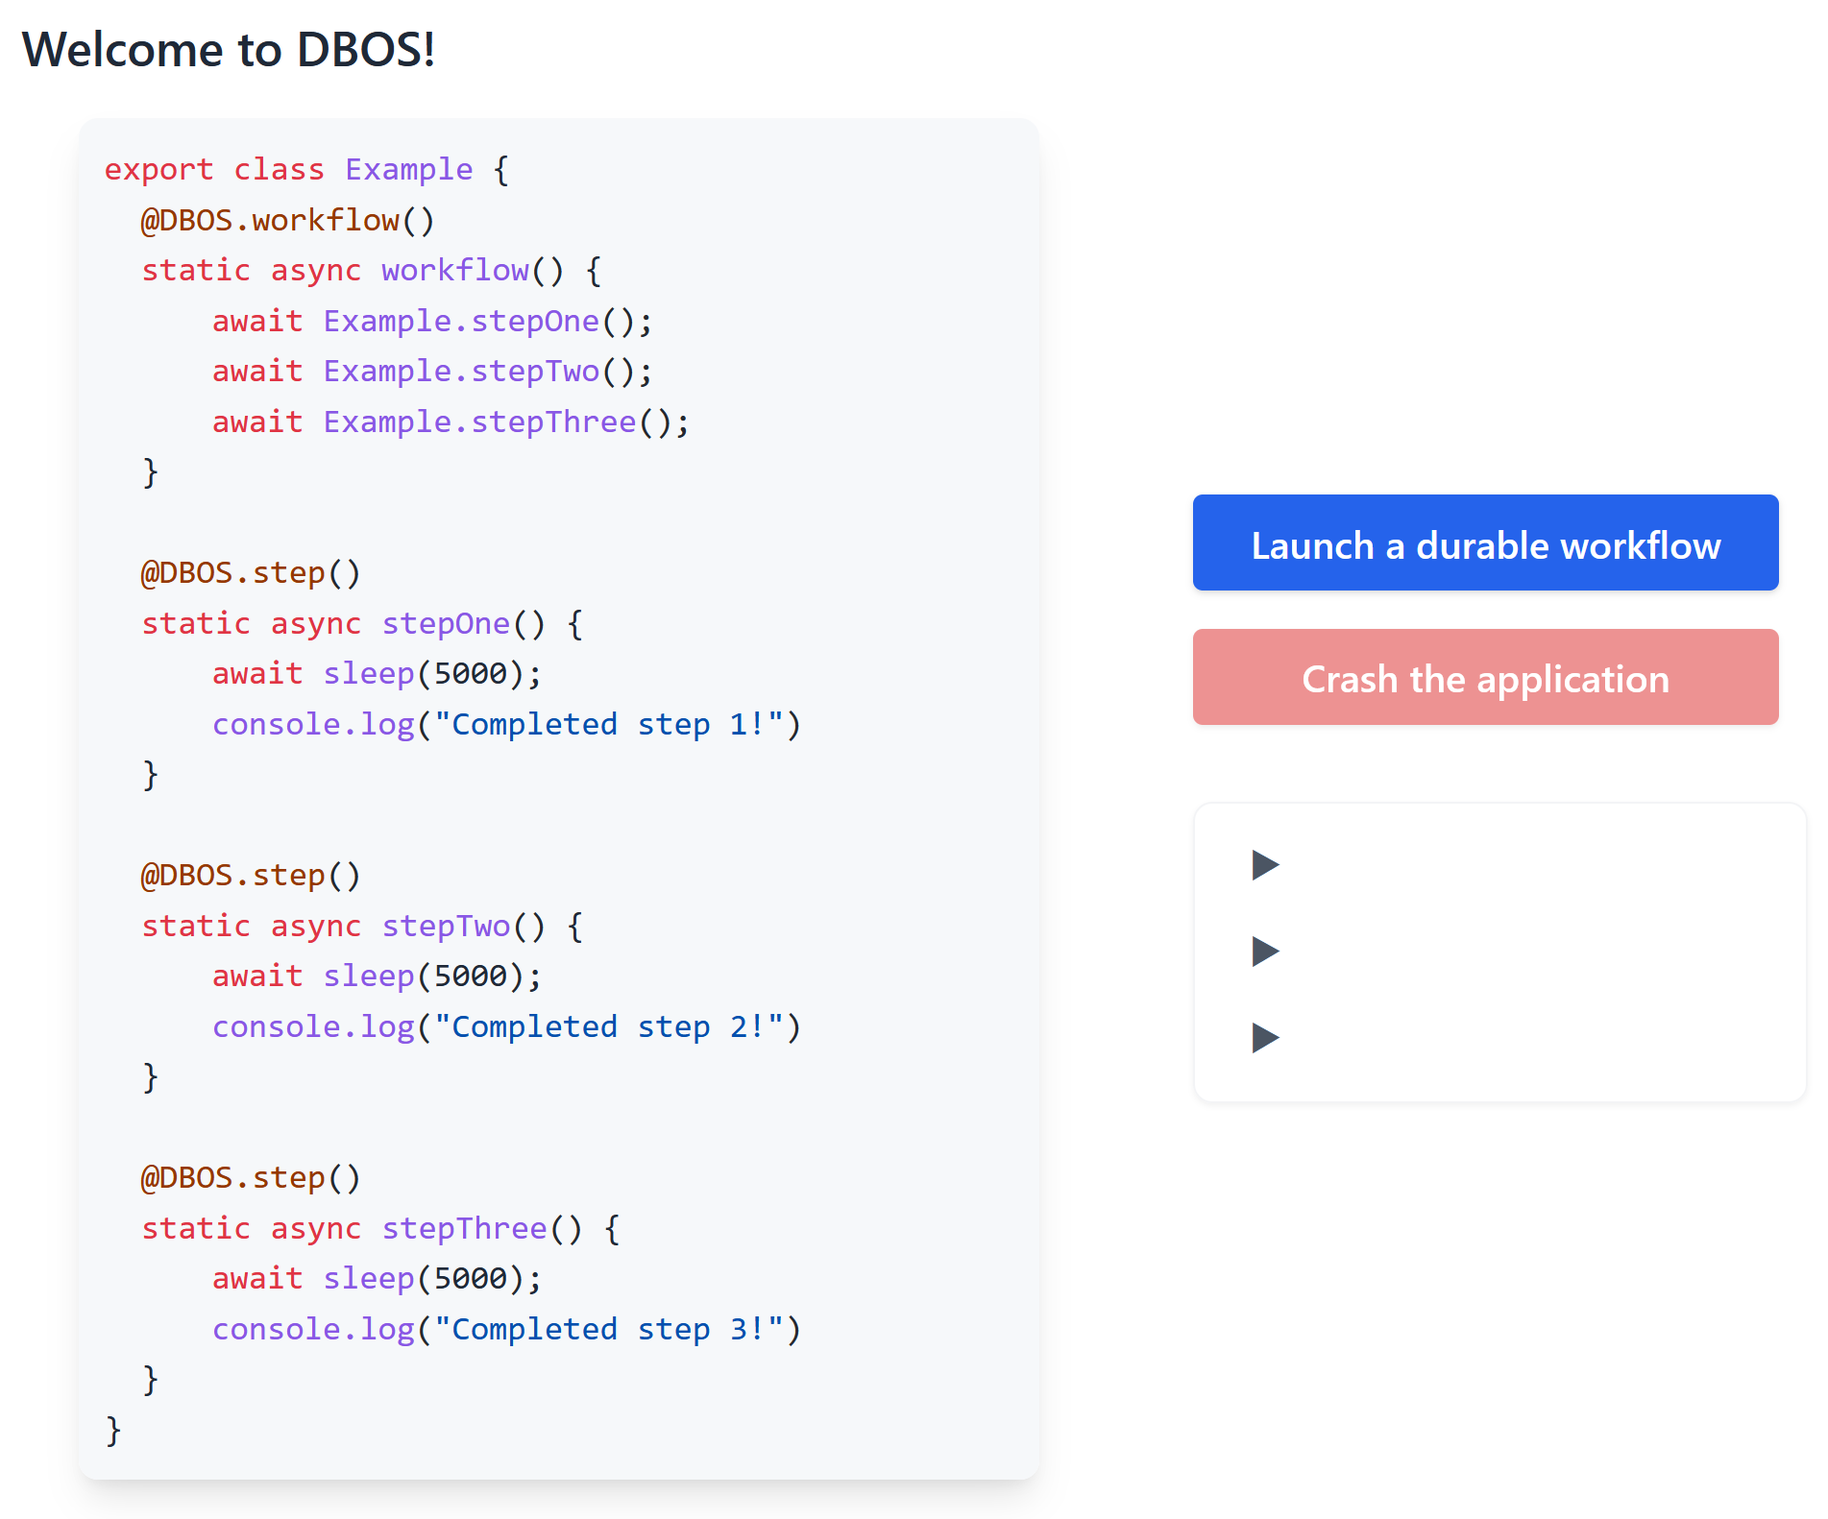
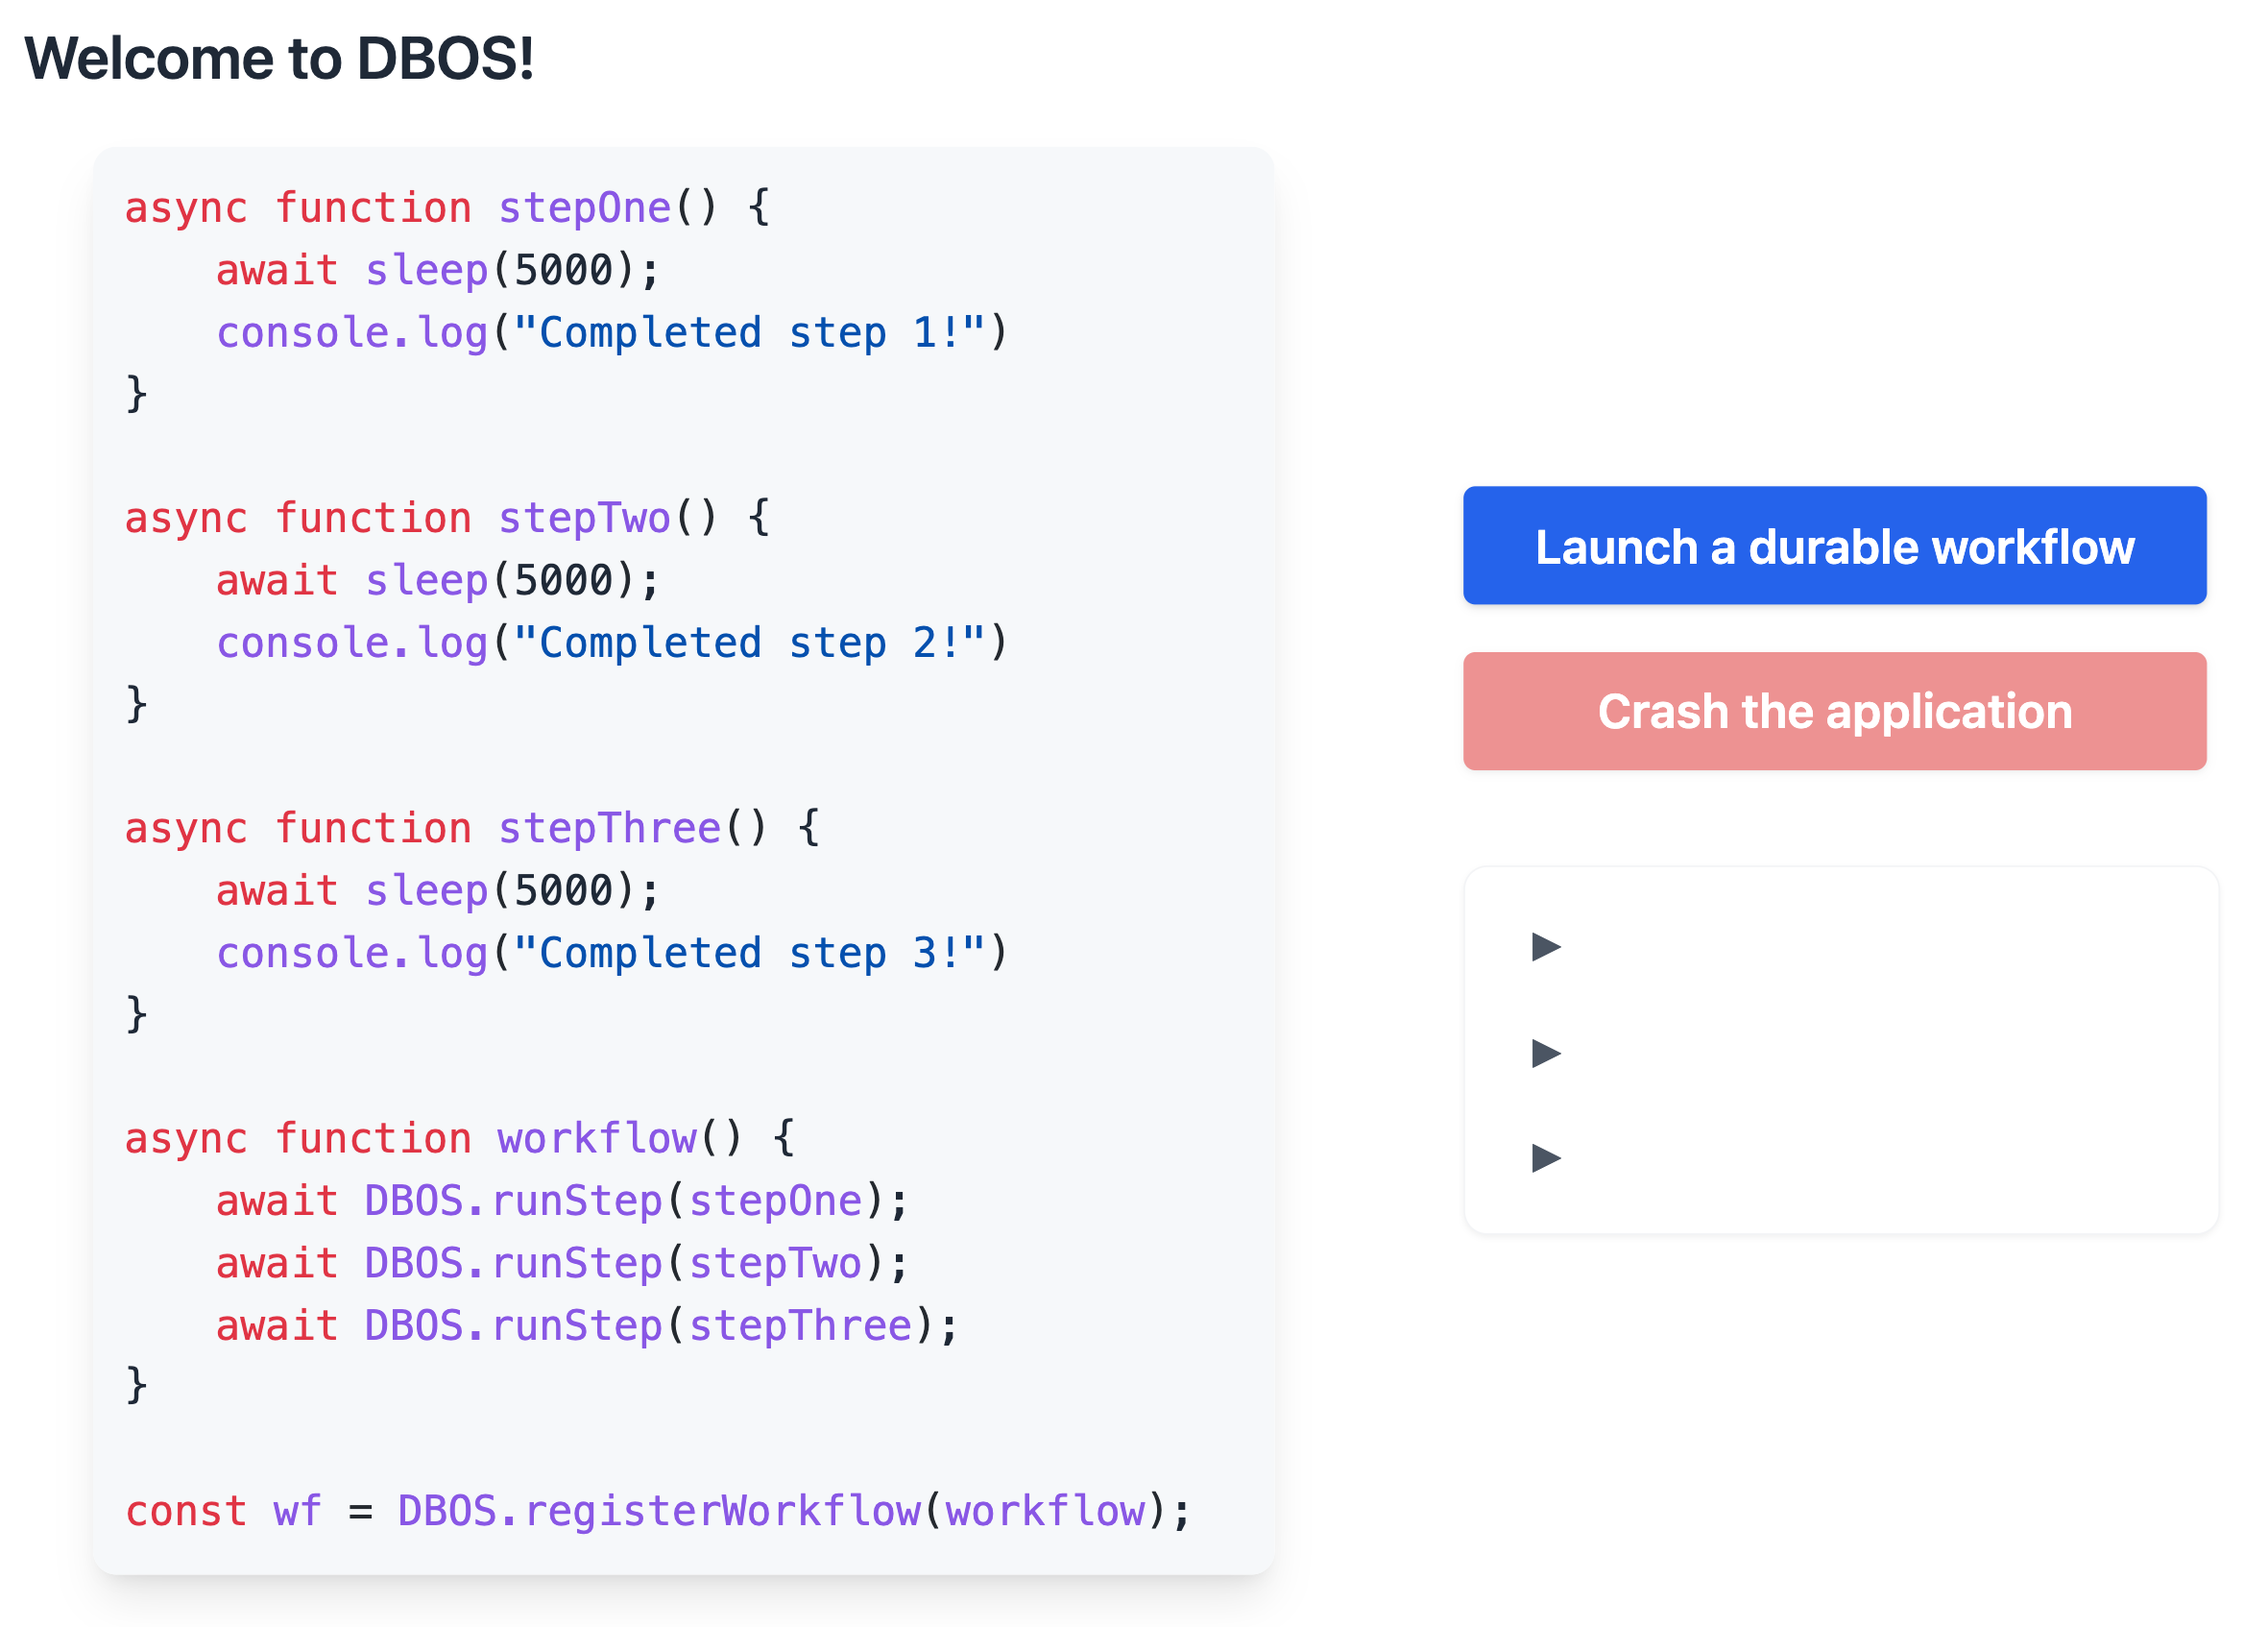
Update code and screenshot for TS V3 (#404)
- Updated screenshot for quickstart.
- Clearly set step name for anonymous functions.

diff --git a/docs/typescript/programming-guide.md b/docs/typescript/programming-guide.md
@@ -42,8 +42,8 @@ async function stepTwo() {
 }
 
 async function exampleFunction() {
-  await DBOS.runStep(stepOne);
-  await DBOS.runStep(stepTwo);
+  await DBOS.runStep(() => stepOne(), {name: "stepOne"});
+  await DBOS.runStep(() => stepTwo(), {name: "stepTwo"});
 }
 const exampleWorkflow = DBOS.registerWorkflow(exampleFunction);
 
@@ -93,12 +93,12 @@ async function stepTwo() {
 }
 
 async function exampleFunction() {
-  await DBOS.runStep(() => stepOne());
+  await DBOS.runStep(() => stepOne(), {name: "stepOne"});
   for (let i = 0; i < 5; i++) {
     console.log("Press Control + C to stop the app...");
     await DBOS.sleep(1000);
   }
-  await DBOS.runStep(() => stepTwo());
+  await DBOS.runStep(() => stepTwo(), {name: "stepTwo"});
 }
 const exampleWorkflow = DBOS.registerWorkflow(exampleFunction);
 
